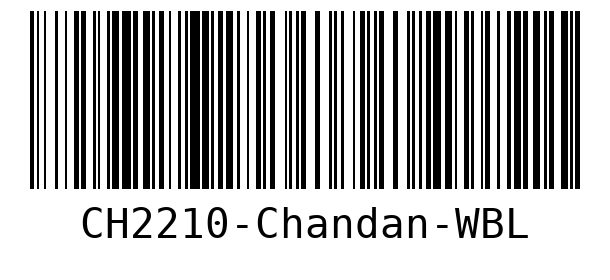
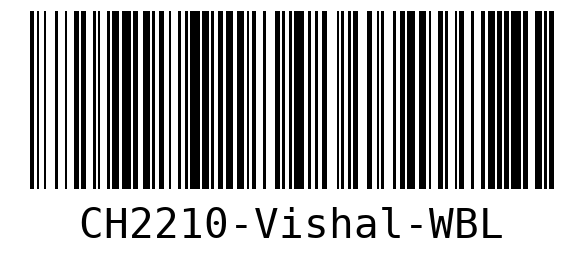
initial commit

diff --git a/qr.py b/qr.py
@@ -1,0 +1,18 @@
+import qrcode
+
+# The URL you want to encode in the QR code
+url = 'https://twitter.com'
+
+# Create the QR code with the URL
+qr = qrcode.QRCode(
+    version=1,
+    error_correction=qrcode.constants.ERROR_CORRECT_L,
+    box_size=10,
+    border=4,
+)
+qr.add_data(url)
+qr.make(fit=True)
+
+# Save the QR code as an image file
+img = qr.make_image(fill_color="black", back_color="white")
+img.save("qr_code.png")

diff --git a/main.py b/main.py
@@ -8,4 +8,4 @@ Code128("CH2210-Chandan-WBL", writer=ImageWriter()).write(rv)
 
 # Saving to a file:
 with open("barcode.png", "wb") as f:
-    Code128("CH2210-Chandan-WBL", writer=ImageWriter()).write(f)
+    Code128("CH2210-Vishal-WBL", writer=ImageWriter()).write(f)
